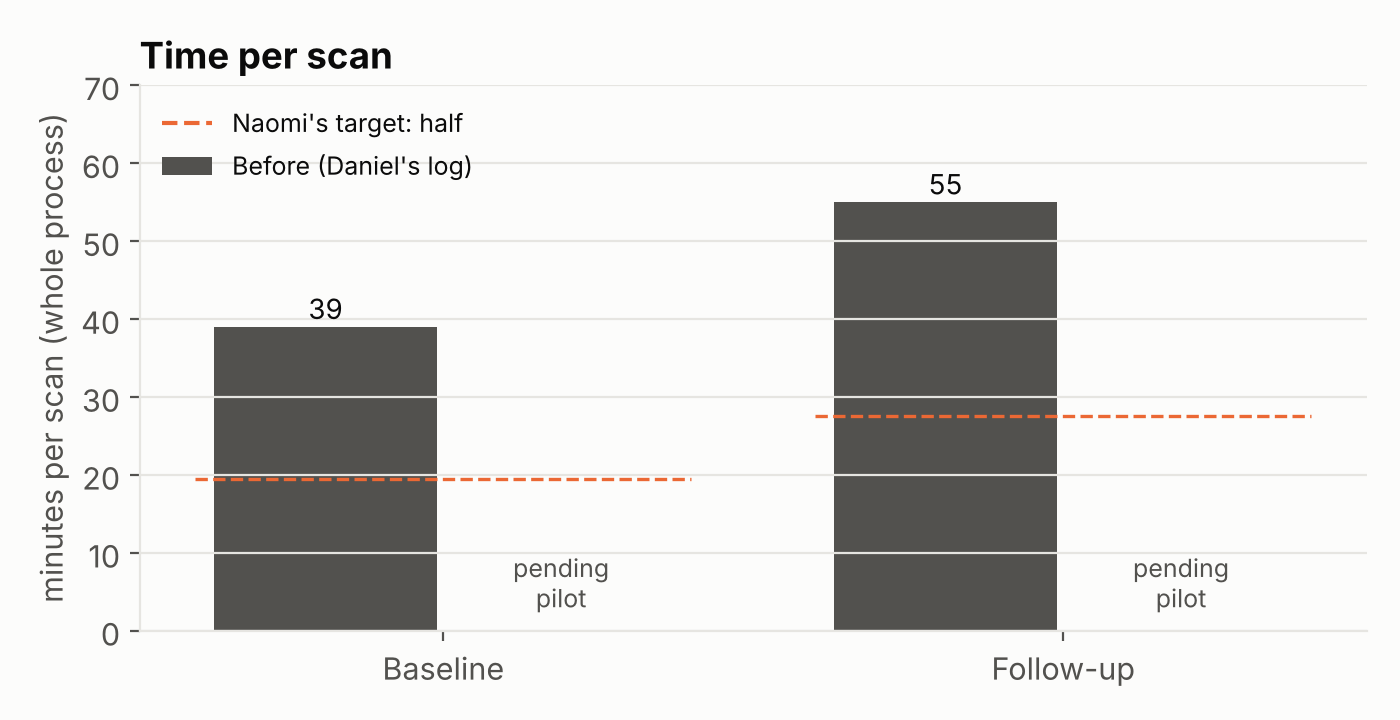
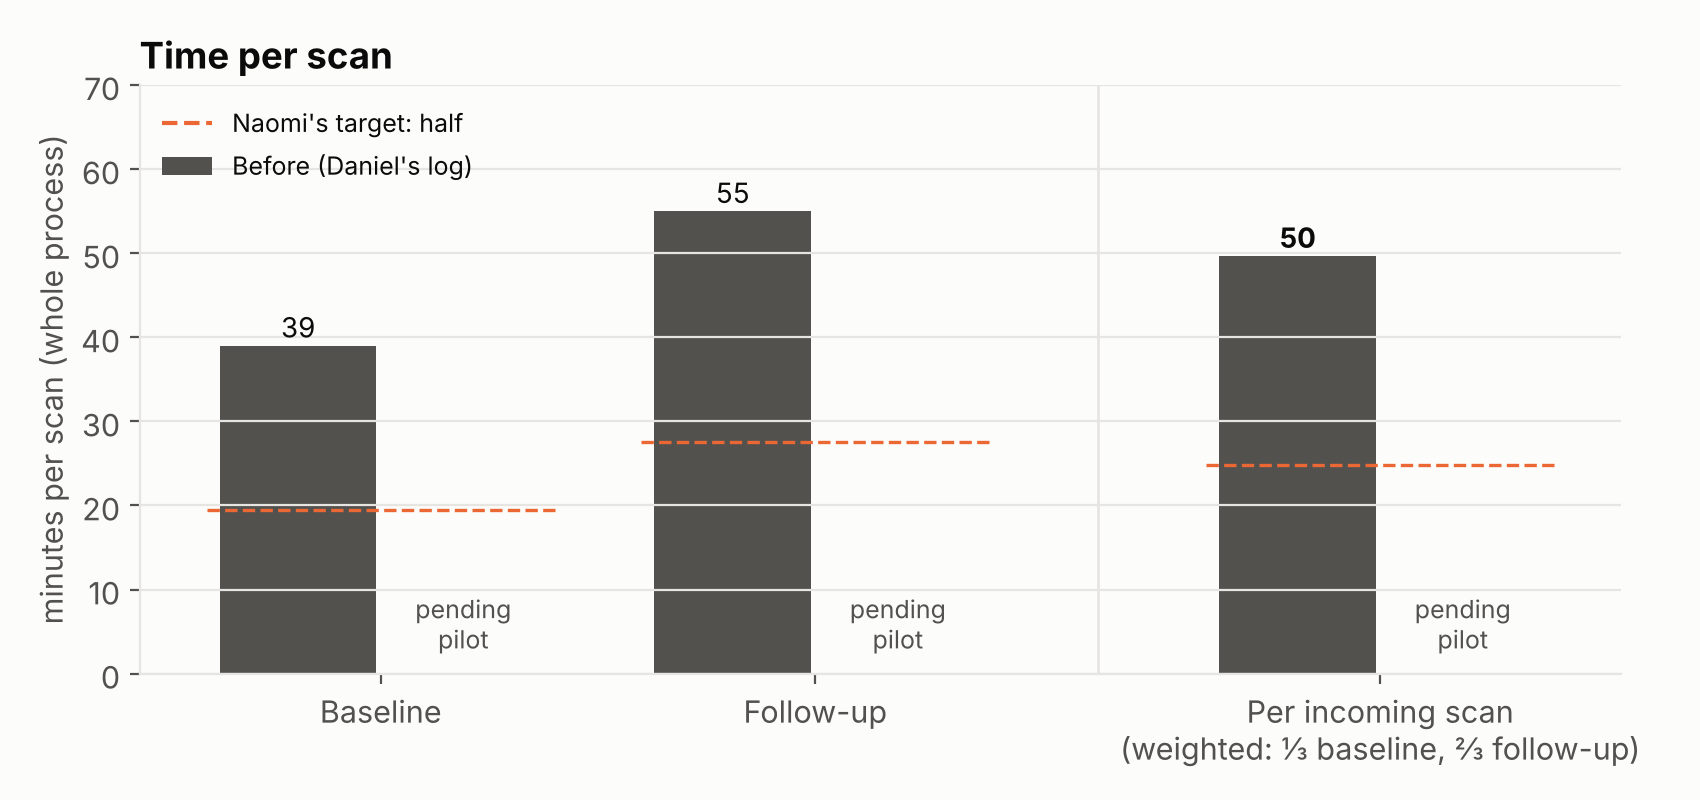
Results: weighted time per incoming scan (1/3 baseline, 2/3 follow-up); central flag not kept
Claude-Session: https://claude.ai/code/session_01Hn4GGnKQMt2qUCW2AmHyyQ

Changed region(s): [[0.0307, 0.0306, 0.9829, 0.9472], [0.2764, 0.9167, 0.3686, 0.9472]]

diff --git a/results/make_figures.py b/results/make_figures.py
@@ -122,33 +122,53 @@ def method_figure(found, noise_mm, noise_pct):
     plt.close(fig)
 
 
-def time_figure():
-    """Before vs after minutes per scan. 'Before' = Daniel's log; 'after' = app timer (results/time_log.csv)."""
-    before = {"Baseline": 39, "Follow-up": 55}  # Daniel's log, last 5 rows (update when full column arrives)
+# Daniel's log, "Minutes on scan" (whole process). Last 5 rows: baseline 38, 49, 30, 37; follow-up 55.
+# Update when the full column arrives.
+BEFORE = {"Baseline": 39, "Follow-up": 55}
+# Daniel (16 Oct): about two-thirds of incoming scans are follow-ups.
+MIX = {"Baseline": 1 / 3, "Follow-up": 2 / 3}
+
+
+def weighted(d):
+    """Average minutes per incoming scan, using the lab's scan mix. None if a timepoint is missing."""
+    if any(k not in d or pd.isna(d[k]) for k in MIX):
+        return None
+    return sum(MIX[k] * d[k] for k in MIX)
+
+
+def time_numbers():
+    """Before / after minutes per timepoint plus the weighted average per incoming scan."""
+    before = dict(BEFORE)
     log = HERE / "time_log.csv"  # columns: timepoint (Baseline|Follow-up), total_minutes, active_minutes, who
     after = {}
     if log.exists():
         t = pd.read_csv(log)
         after = t.groupby("timepoint")["total_minutes"].median().to_dict()
-    fig, ax = plt.subplots(figsize=(7, 3.6))
-    x = np.arange(len(before))
-    ax.bar(x - 0.19, list(before.values()), 0.36, color=INK2, label="Before (Daniel's log)")
-    for i, v in enumerate(before.values()):
-        ax.text(i - 0.19, v + 1, f"{v}", ha="center", fontsize=10)
-    if after:
-        vals = [after.get(k, np.nan) for k in before]
-        ax.bar(x + 0.19, vals, 0.36, color=BLUE, label="With LungMarker (app timer)")
-        for i, v in enumerate(vals):
-            if not np.isnan(v):
-                ax.text(i + 0.19, v + 1, f"{v:.0f}", ha="center", fontsize=10)
-    else:
-        for i in x:
+    before["Weighted"] = weighted(before)
+    after["Weighted"] = weighted(after)
+    return before, after
+
+
+def time_figure(before, after):
+    """Before vs after: baseline, follow-up, and the weighted average per incoming scan (the headline)."""
+    groups = ["Baseline", "Follow-up", "Weighted"]
+    labels = ["Baseline", "Follow-up", "Per incoming scan\n(weighted: \u2153 baseline, \u2154 follow-up)"]
+    x = np.array([0, 1, 2.3])  # small gap before the headline group
+    fig, ax = plt.subplots(figsize=(8.5, 4))
+    for i, g in zip(x, groups):
+        b = before[g]
+        ax.bar(i - 0.19, b, 0.36, color=INK2, label="Before (Daniel's log)" if g == "Baseline" else None)
+        ax.text(i - 0.19, b + 1, f"{b:.0f}", ha="center", fontsize=10, fontweight="bold" if g == "Weighted" else None)
+        a = after.get(g)
+        if a is not None and not pd.isna(a):
+            ax.bar(i + 0.19, a, 0.36, color=BLUE, label="With LungMarker (app timer)" if g == "Baseline" else None)
+            ax.text(i + 0.19, a + 1, f"{a:.0f}", ha="center", fontsize=10, fontweight="bold" if g == "Weighted" else None)
+        else:
             ax.text(i + 0.19, 3, "pending\npilot", ha="center", fontsize=9, color=INK2)
-    halved = [v / 2 for v in before.values()]
-    for i, h in enumerate(halved):
-        ax.plot([i - 0.4, i + 0.4], [h, h], ls="--", color=ORANGE, lw=1.2)
+        ax.plot([i - 0.4, i + 0.4], [b / 2, b / 2], ls="--", color=ORANGE, lw=1.2)
     ax.plot([], [], ls="--", color=ORANGE, label="Naomi's target: half")
-    ax.set_xticks(x, list(before.keys()))
+    ax.axvline(1.65, color=GRID, lw=1)
+    ax.set_xticks(x, labels)
     ax.set_ylabel("minutes per scan (whole process)")
     ax.set_title("Time per scan", loc="left", fontweight="bold")
     ax.legend(frameon=False, fontsize=9, loc="upper left")
@@ -166,13 +186,21 @@ def main():
     finding_figure(f)
     lm, vm, lin, vin = error_figure(found, noise_mm, noise_pct)
     method_figure(found, noise_mm, noise_pct)
-    time_figure()
+    before, after = time_numbers()
+    time_figure(before, after)
     ev = m[m.tumour_matched.notna()]
     print(f"expert repeat noise (n={n_pairs}): {noise_mm:.1f} mm, {noise_pct:.0f}%")
     print(f"found {len(found)}/{len(f)}; long err median {lm:.1f} mm ({100*lin:.0f}% within); "
           f"vol err median {vm:.0f}% ({100*vin:.0f}% within)")
     print(f"matching: {int((ev.tumour_matched == True).sum())}/{len(ev)} tumour pairs matched; "
           f"registration error median {m.registration_error_mm.median():.1f} mm")
+    def fmt(d, k):
+        v = d.get(k)
+        return "pending" if v is None or pd.isna(v) else f"{v:.0f} min"
+    for k in ["Baseline", "Follow-up", "Weighted"]:
+        b, a = before[k], after.get(k)
+        saved = "" if a is None or pd.isna(a) else f", saved {100 * (1 - a / b):.0f}%"
+        print(f"time {k}: before {b:.1f} min, after {fmt(after, k)}{saved}, target {b / 2:.0f} min")
     print(f"figures written to {OUT}")
 
 

diff --git a/RESULTS.md b/RESULTS.md
@@ -7,7 +7,7 @@ All figures are made by `python results/make_figures.py` from the CSVs in `resul
 ## The question
 
 The lab's measure of success (Naomi, Research Director): **cut Daniel's time per scan roughly in half, with no drop in measurement quality**, and results Naomi can open and defend.
-Daniel's log: **~39 min per baseline scan, ~55 per follow-up**. His biggest time sink is **searching** for nodules (10–20 min, two full passes over 250–400 images), then matching follow-ups to the prior scan.
+Daniel's log: **~39 min per baseline scan, ~55 per follow-up**. About **two-thirds of incoming scans are follow-ups** (Daniel), so the average incoming scan takes **~50 min** (⅓ × 39 + ⅔ × 55). Target: **~25 min per incoming scan**. His biggest time sink is **searching** for nodules (10–20 min, two full passes over 250–400 images), then matching follow-ups to the prior scan.
 So the tool attacks searching first, then outlining/measuring, matching and typing into his sheet.
 
 ## Summary
@@ -20,7 +20,7 @@ So the tool attacks searching first, then outlining/measuring, matching and typi
 | Lobe | 100% agree with the expert outline's lobe | Works |
 | Matching to the prior scan | 24 / 24 tumour pairs correct | Works (small sample) |
 | Export to Daniel's sheet | 18 columns, exact order and formats; edit trail sheet; 23/23 automated checks | Works (tested on synthetic data; real-file check **TBD**) |
-| Time saved | **TBD** (pilot) | **TBD** |
+| Time saved | before ~50 min per incoming scan (weighted); after **TBD** (pilot) | **TBD** |
 
 ## 1. What works
 
@@ -43,7 +43,8 @@ So the tool attacks searching first, then outlining/measuring, matching and typi
 
 ### Central tumours are missed
 All 7 misses (4 patients) are **central tumours touching the hilum or mediastinum**, 14–52 mm, with model probability ~0 inside the tumour. This is a limit of the model, not of our settings. Daniel told us central tumours are common in their cohort, so this matters.
-→ **The app does not let a scan be approved until Daniel ticks "I checked the hilum and mediastinum"**, with a one-click switch to the mediastinal window and an "Add nodule" button. *(Planned: an engine "possible central mass" flag — result TBD.)*
+→ **The app does not let a scan be approved until Daniel ticks "I checked the hilum and mediastinum"**, with a one-click switch to the mediastinal window and an "Add nodule" button.
+→ **We tried an automatic "possible central mass, check here" flag (3 ideas, ~2 h) and did not keep it.** Two ideas flagged none of the missed tumours (3 of 4 sit inside the lung outline, not in a dent). The best one flagged 4 of the 7 missed scans but also raised 107 false flags on the other 52 scans (49 of 52 flagged), so it would teach Daniel to ignore it. Code and numbers: `engine/experiments/`. The manual check stays.
 
 ### Outlines are not yet as precise as an expert
 ![Error vs expert](results/figures/outline_error_vs_expert.png)
@@ -62,18 +63,24 @@ We tried three outline methods on the same 52 tumours and kept the best ("model 
 
 ## 3. How we measured time saved
 
-**TBD — protocol, to be run Sat/Sun:**
-- **Before:** Daniel's own log, column "Minutes on scan" (whole process: loading, finding, measuring, typing). Last 5 rows: 38, 49, 30, 37 (baseline), 55 (follow-up). *Full column requested.*
-- **After:** the app's built-in timer, same definition (scan opened → approved, total wall-clock), plus "active" time without idle. Logged per scan in `results/time_log.csv`.
-- **Who:** a pilot by the developer on RIDER scans (baseline + follow-up), and Daniel when he tries the first version. Results are reported separately and labelled — a developer is not Daniel.
-- **Target:** half → ~20 min baseline, ~27 min follow-up.
+**The headline number is minutes per incoming scan, weighted by the lab's real mix: ⅓ baseline, ⅔ follow-up.** Baseline and follow-up are also shown on their own, because the tool helps them differently (follow-ups add matching to the prior scan).
+
+| | Share of incoming scans | Before (Daniel's log) | Target (half) | After (app timer) | Saved |
+|---|---|---|---|---|---|
+| Baseline | ⅓ | 39 min | ~20 min | TBD | TBD |
+| Follow-up | ⅔ | 55 min | ~28 min | TBD | TBD |
+| **Per incoming scan (weighted)** | | **~50 min** | **~25 min** | **TBD** | **TBD** |
+
+Weighted = ⅓ × baseline + ⅔ × follow-up, computed the same way for before and after (`results/make_figures.py`).
 
 ![Time](results/figures/time_before_after.png)
 
-| Scan | Before (Daniel's log) | After (app timer) | Who | Notes |
-|---|---|---|---|---|
-| Baseline | 39 min | TBD | | |
-| Follow-up | 55 min | TBD | | |
+**Protocol (pilot Sat/Sun, TBD):**
+- **Before:** Daniel's log, column "Minutes on scan". His definition covers the whole process: loading the study, choosing the series, finding, measuring, outlining, typing into the sheet.
+- **After:** the app's built-in timer, same definition: total wall-clock time from opening the scan to approving it, summed over visits. The app also records "active" time (idle and hidden tab removed); we report total, because that matches Daniel's log. Logged per scan in `results/time_log.csv`.
+- **Who:** a pilot by the developer on RIDER scans (baseline + follow-up), then Daniel when he tries the first version. Reported separately and labelled: a developer is not Daniel.
+
+**How solid the "before" number is:** so far we have only the last 5 rows of Daniel's log (baseline 38, 49, 30, 37; follow-up 55). **The follow-up figure is a single scan, and follow-ups carry ⅔ of the weight**, so the ~50 min mostly rests on one data point. The full column has been requested; the numbers will be updated when it arrives. The ⅔ share is Daniel's estimate ("about two-thirds").
 
 ## 4. Limits — said out loud
 
